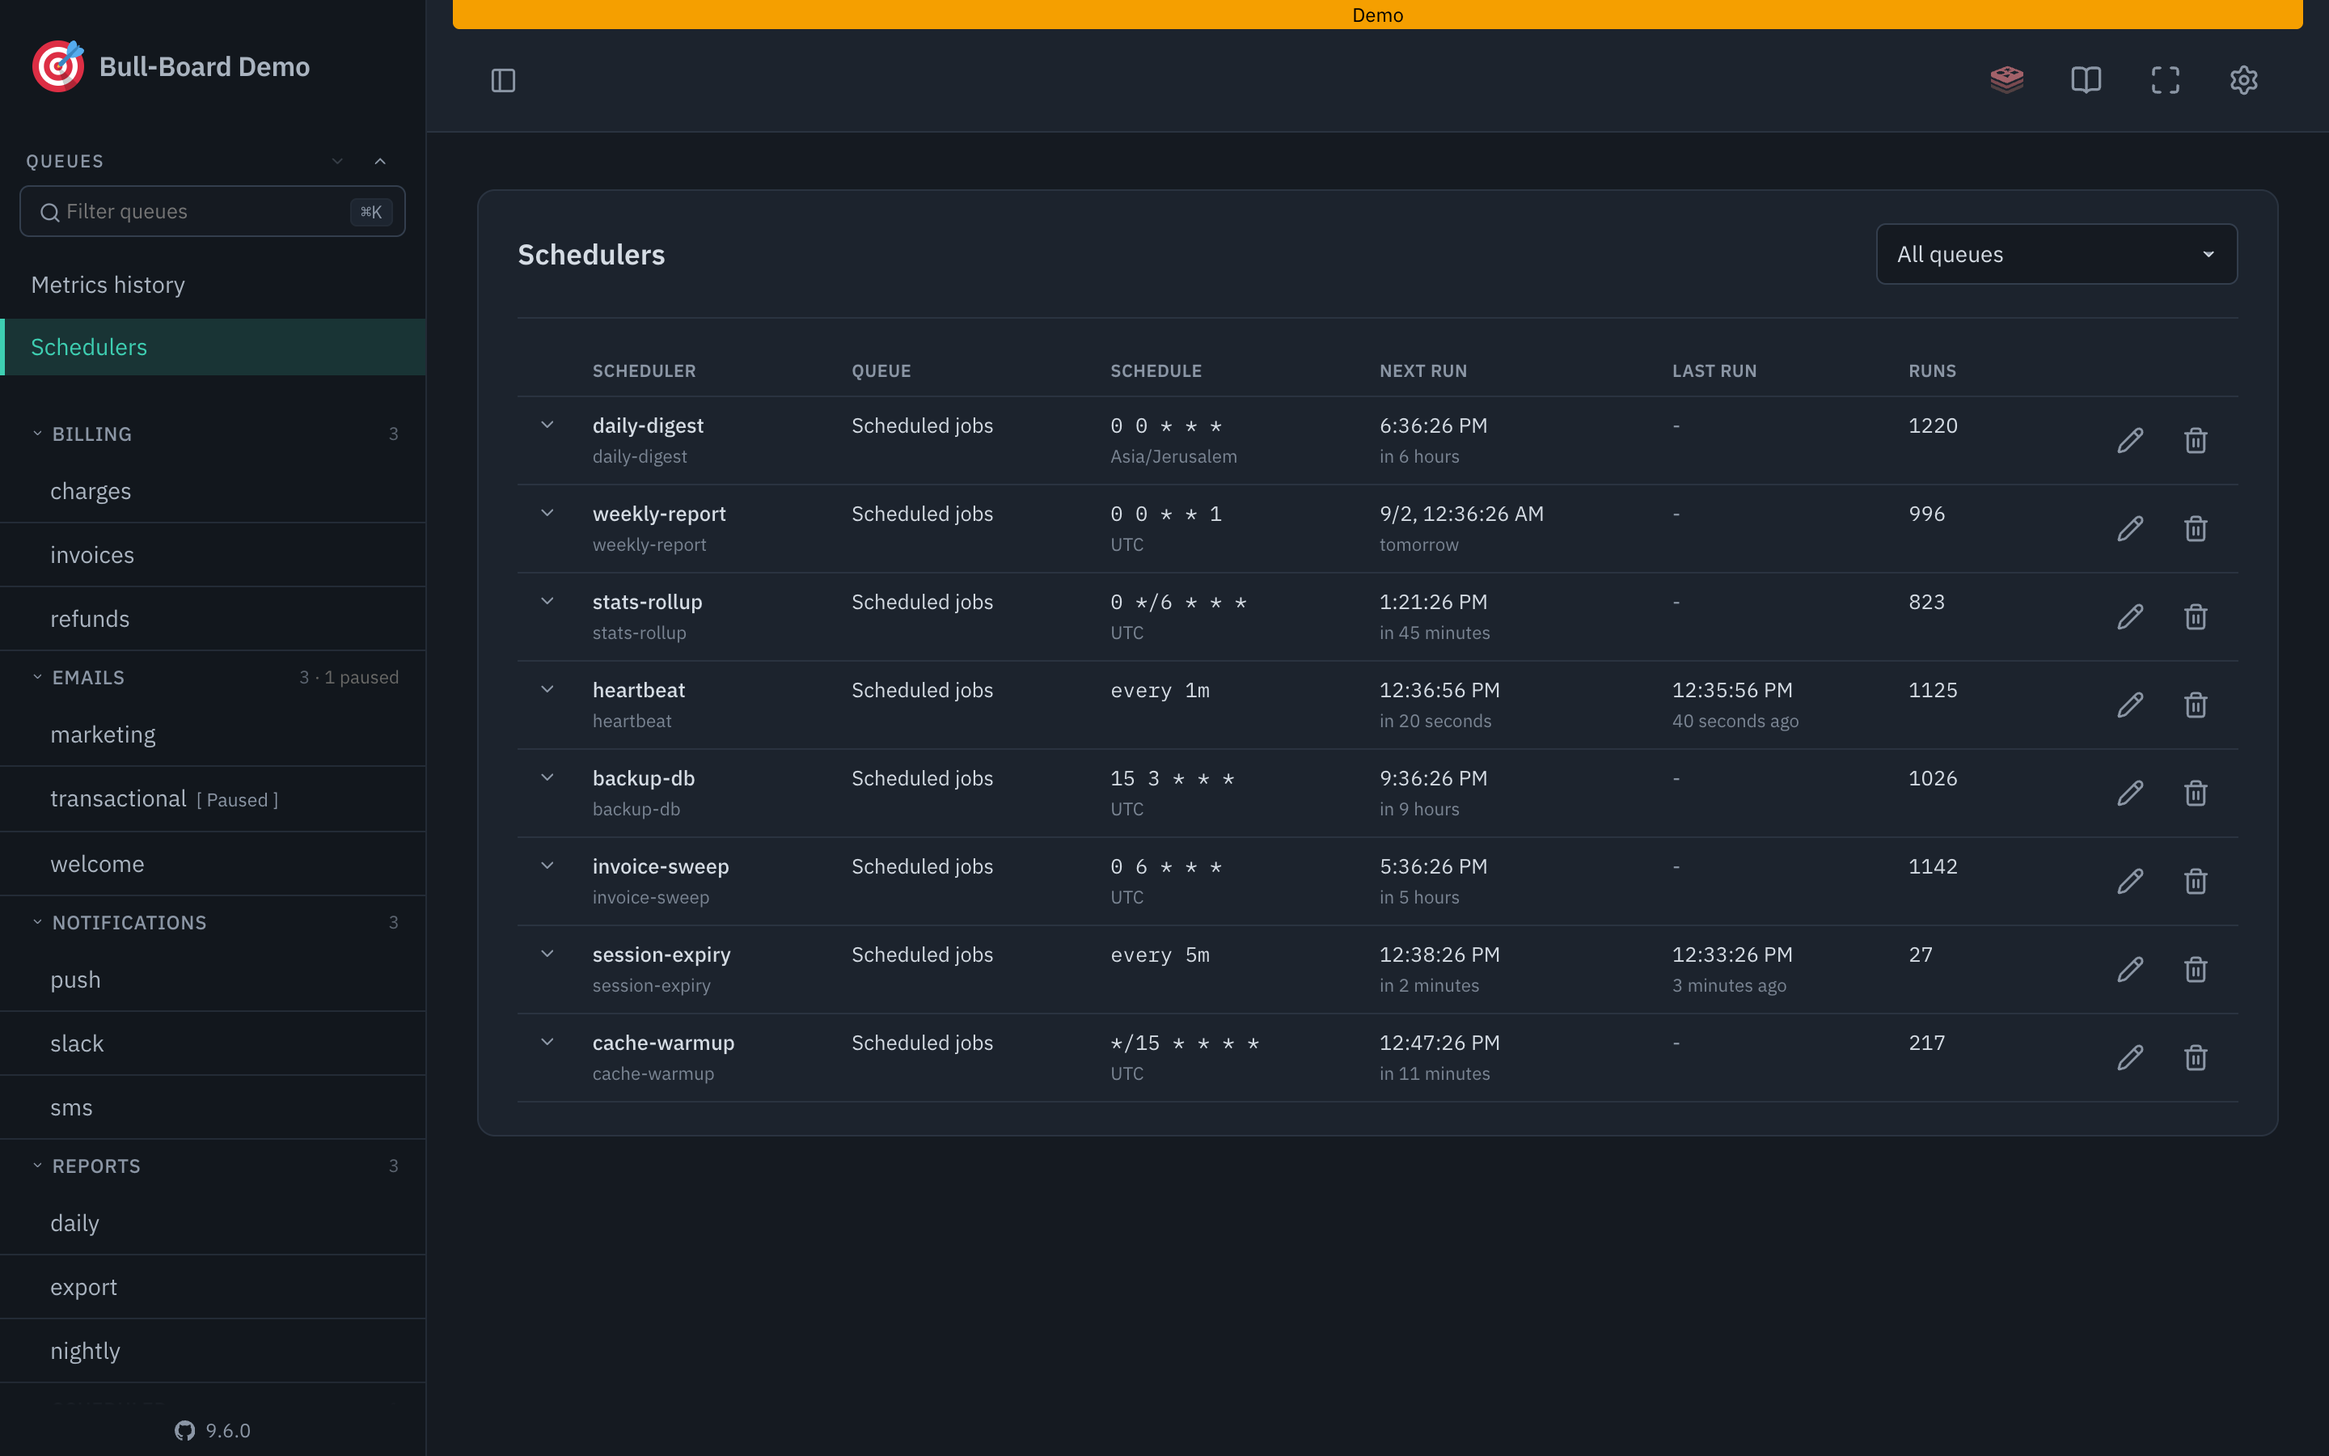
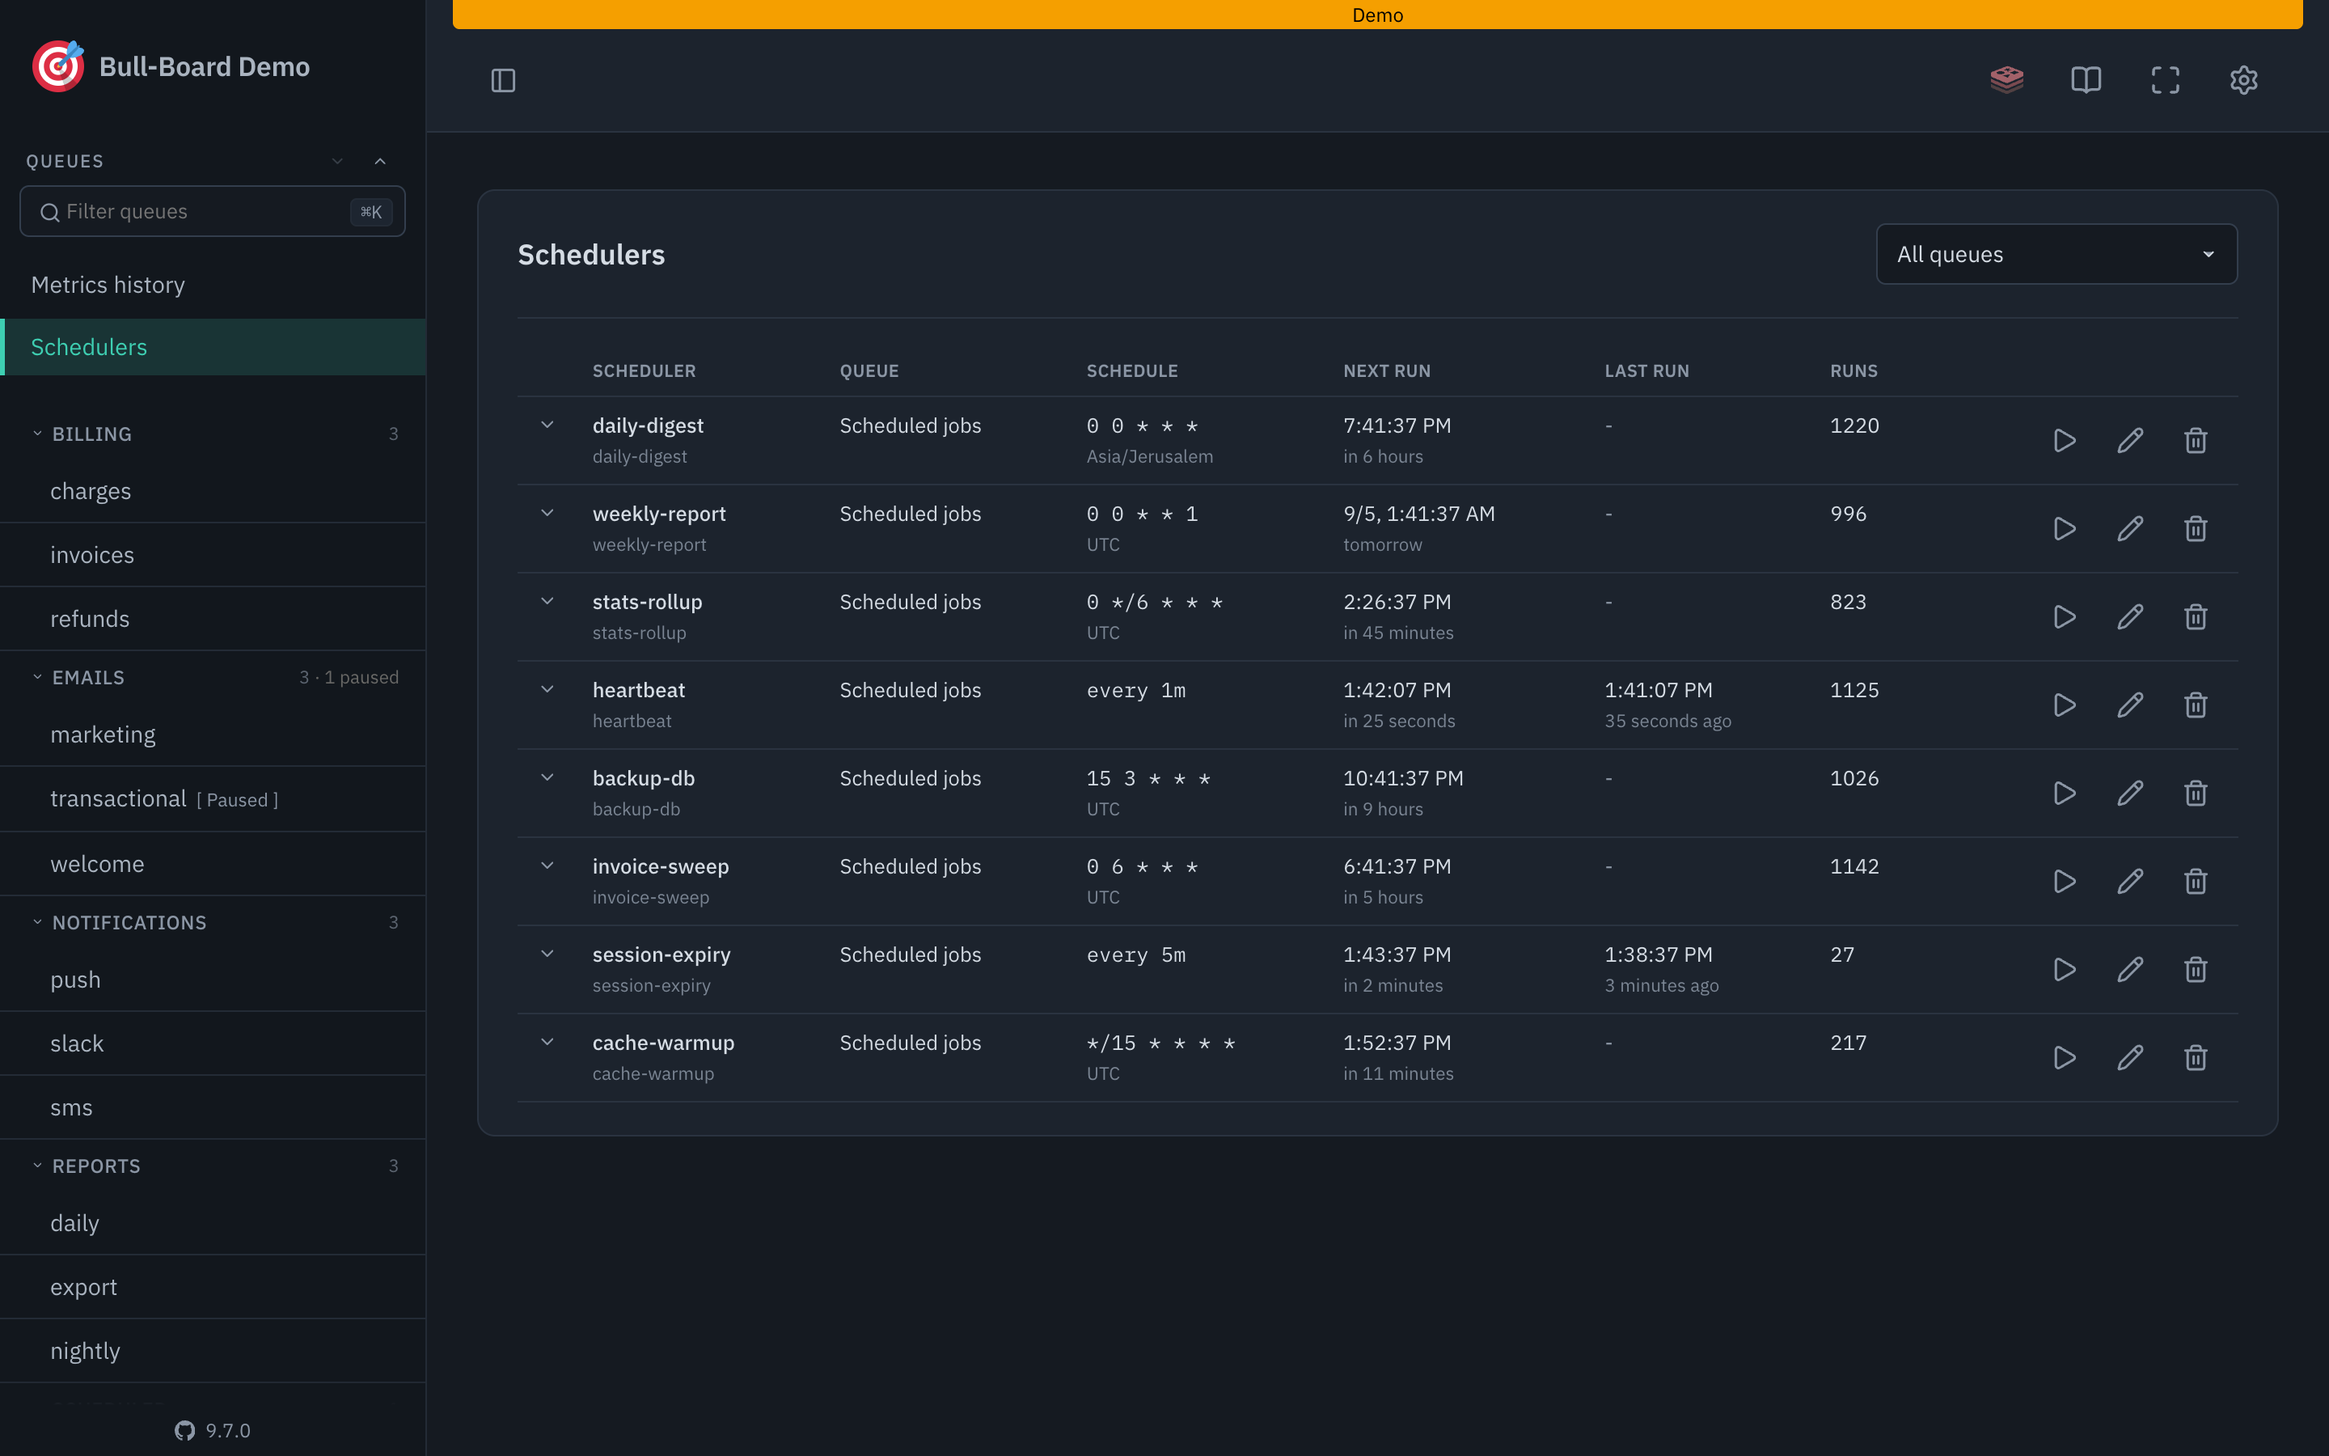
feat(ui): run a job scheduler on demand from the schedulers view (#1430)

diff --git a/packages/api/tests/api/job-schedulers.spec.ts b/packages/api/tests/api/job-schedulers.spec.ts
@@ -387,6 +387,75 @@ describe('Job schedulers', () => {
     });
   });
 
+  describe('Running a scheduler now', () => {
+    it('adds a waiting job from the template and leaves the schedule alone', async () => {
+      await firstQueue.upsertJobScheduler(
+        'nightly-billing',
+        { pattern: '0 3 * * *', tz: 'Europe/Warsaw' },
+        { name: 'billing', data: { scope: 'nightly' }, opts: { attempts: 3 } }
+      );
+
+      const before = await firstQueue.getJobScheduler('nightly-billing');
+
+      const { body } = await request(serverAdapter.getRouter())
+        .put(`/api/queues/${firstQueue.name}/job-schedulers/nightly-billing/run`)
+        .expect(200);
+
+      expect(body.job).toMatchObject({
+        name: 'billing',
+        data: { scope: 'nightly' },
+      });
+      expect(body.job.opts).toMatchObject({ attempts: 3 });
+      expect(body.job.opts.repeat).toBeUndefined();
+
+      const created = await firstQueue.getJob(body.job.id);
+      expect(await created?.getState()).toBe('waiting');
+
+      const after = await firstQueue.getJobScheduler('nightly-billing');
+      expect(after?.pattern).toBe('0 3 * * *');
+      expect(after?.next).toBe(before?.next);
+      expect(after?.iterationCount).toBe(before?.iterationCount);
+    });
+
+    it('leaves the pending run of the schedule where it was', async () => {
+      await firstQueue.upsertJobScheduler('heartbeat', { pattern: '0 3 * * *' }, { name: 'ping' });
+
+      const scheduler = await firstQueue.getJobScheduler('heartbeat');
+      const pendingRunId = `repeat:heartbeat:${scheduler?.next}`;
+
+      await request(serverAdapter.getRouter())
+        .put(`/api/queues/${firstQueue.name}/job-schedulers/heartbeat/run`)
+        .expect(200);
+
+      const pendingRun = await firstQueue.getJob(pendingRunId);
+      expect(await pendingRun?.getState()).toBe('delayed');
+    });
+
+    it('returns 404 for a scheduler that does not exist', async () => {
+      const { body } = await request(serverAdapter.getRouter())
+        .put(`/api/queues/${firstQueue.name}/job-schedulers/never-existed/run`)
+        .expect(404);
+
+      expect(body.error).toEqual({ key: 'ERRORS.JOB_SCHEDULER_NOT_FOUND' });
+    });
+
+    it('is rejected on a read only queue', async () => {
+      const readOnlyServerAdapter = new ExpressAdapter();
+      createBullBoard({
+        queues: [new BullMQAdapter(firstQueue, { readOnlyMode: true })],
+        serverAdapter: readOnlyServerAdapter,
+      });
+
+      await firstQueue.upsertJobScheduler('read-only', { pattern: '0 3 * * *' }, { name: 'task' });
+
+      await request(readOnlyServerAdapter.getRouter())
+        .put(`/api/queues/${firstQueue.name}/job-schedulers/read-only/run`)
+        .expect(405);
+
+      expect(await firstQueue.getJobCountByTypes('waiting')).toBe(0);
+    });
+  });
+
   describe('Legacy Bull queues', () => {
     let bullQueue: BullQueue.Queue;
     let bullServerAdapter: ExpressAdapter;
@@ -450,6 +519,19 @@ describe('Job schedulers', () => {
 
       expect(body.error).toEqual({ key: 'ERRORS.JOB_SCHEDULER_EDIT_NOT_SUPPORTED' });
       expect(await bullQueue.getRepeatableJobs()).toHaveLength(1);
+    });
+
+    it('refuses to run a repeatable job on demand, since Bull keeps no template', async () => {
+      await bullQueue.add('legacy-task', {}, { repeat: { cron: '0 3 * * *' } });
+      const [repeatable] = await bullQueue.getRepeatableJobs();
+
+      const { body } = await request(bullServerAdapter.getRouter())
+        .put(
+          `/api/queues/${bullQueue.name}/job-schedulers/${encodeURIComponent(repeatable.key)}/run`
+        )
+        .expect(405);
+
+      expect(body.error).toEqual({ key: 'ERRORS.JOB_SCHEDULER_RUN_NOT_SUPPORTED' });
     });
   });
 });

diff --git a/packages/ui/src/pages/SchedulersPage/SchedulersPage.tsx b/packages/ui/src/pages/SchedulersPage/SchedulersPage.tsx
@@ -7,6 +7,7 @@ import { Card } from '../../components/Card/Card';
 import { CollapsibleJSON } from '../../components/CollapsibleJSON/CollapsibleJSON';
 import { SelectField } from '../../components/Form/SelectField/SelectField';
 import { ChevronDown } from '../../components/Icons/ChevronDown';
+import { PlayIcon } from '../../components/Icons/Play';
 import { TrashIcon } from '../../components/Icons/Trash';
 import { UpdateIcon } from '../../components/Icons/UpdateIcon';
 import { Loader } from '../../components/Loader/Loader';
@@ -117,9 +118,10 @@ export const SchedulersPage = () => {
                 {schedulers.map((scheduler) => {
                   const queue = queuesByName.get(scheduler.queueName);
                   const isReadOnly = queue?.readOnlyMode ?? false;
-                  // Bull has no upsert for repeatable jobs, so its schedules are read-only here.
-                  // An unknown queue is treated the same way until the queues list arrives.
-                  const canEdit = !isReadOnly && queue?.type === 'bullmq';
+                  // Editing needs an upsert and running on demand needs a stored template, and
+                  // Bull has neither. An unknown queue is treated the same way until the queues
+                  // list arrives.
+                  const isBullMQ = queue?.type === 'bullmq';
                   const isExpanded = expanded.includes(rowKey(scheduler));
                   const hasTemplate = !!scheduler.template?.data || !!scheduler.template?.opts;
 
@@ -163,7 +165,17 @@ export const SchedulersPage = () => {
                           )}
                         </td>
                         <td className={s.actionsCell}>
-                          {canEdit && (
+                          {!isReadOnly && isBullMQ && (
+                            <Button
+                              compact
+                              onClick={actions.runNow(scheduler)}
+                              title={t('SCHEDULERS.ACTIONS.RUN')}
+                              aria-label={t('SCHEDULERS.ACTIONS.RUN')}
+                            >
+                              <PlayIcon />
+                            </Button>
+                          )}
+                          {!isReadOnly && isBullMQ && (
                             <Button
                               compact
                               onClick={() => setEditing(scheduler)}

diff --git a/packages/api/src/handlers/runJobScheduler.ts b/packages/api/src/handlers/runJobScheduler.ts
@@ -1,0 +1,34 @@
+import { BullBoardRequest, ControllerHandlerReturnType } from '../../typings/app';
+import { errorResponse } from '../errors';
+import { queueProvider } from '../providers/queue';
+import { BaseAdapter } from '../queueAdapters/base';
+import { formatJob } from './queues';
+
+/**
+ * Fires a scheduler once, right now, without touching its schedule: the job that comes out is a
+ * plain one-off built from the template, and the run the scheduler was already holding is left
+ * where it was.
+ */
+async function runJobScheduler(
+  req: BullBoardRequest,
+  queue: BaseAdapter
+): Promise<ControllerHandlerReturnType> {
+  const { schedulerId } = req.params;
+
+  if (!queue.supportsJobSchedulerRun) {
+    return errorResponse(405, 'ERRORS.JOB_SCHEDULER_RUN_NOT_SUPPORTED');
+  }
+
+  const job = await queue.runJobSchedulerNow(schedulerId);
+
+  if (job === 'not-found') {
+    return errorResponse(404, 'ERRORS.JOB_SCHEDULER_NOT_FOUND');
+  }
+
+  return {
+    status: 200,
+    body: { job: formatJob(job, queue) },
+  };
+}
+
+export const runJobSchedulerHandler = queueProvider(runJobScheduler);

diff --git a/packages/api/src/routes.ts b/packages/api/src/routes.ts
@@ -31,6 +31,7 @@ import { resumeAllHandler } from './handlers/resumeAll';
 import { resumeQueueHandler } from './handlers/resumeQueue';
 import { retryAllHandler } from './handlers/retryAll';
 import { retryJobHandler } from './handlers/retryJob';
+import { runJobSchedulerHandler } from './handlers/runJobScheduler';
 import { setGlobalConcurrencyHandler } from './handlers/setGlobalConcurrency';
 import { updateJobDataHandler } from './handlers/updateJobData';
 import { updateJobSchedulerHandler } from './handlers/updateJobScheduler';
@@ -157,6 +158,11 @@ export const appRoutes: AppRouteDefs = {
       method: 'patch',
       route: '/api/queues/:queueName/job-schedulers/:schedulerId',
       handler: updateJobSchedulerHandler,
+    },
+    {
+      method: 'put',
+      route: '/api/queues/:queueName/job-schedulers/:schedulerId/run',
+      handler: runJobSchedulerHandler,
     },
     {
       method: 'put',

diff --git a/website/demo/src/mocks/MockAdapter.ts b/website/demo/src/mocks/MockAdapter.ts
@@ -269,6 +269,10 @@ export class MockAdapter extends BaseAdapter {
     return this.mockQueue.schedulers.length;
   }
 
+  override get supportsJobSchedulerUpdate(): boolean {
+    return true;
+  }
+
   async updateJobScheduler(
     id: string,
     repeat: JobSchedulerRepeatOptions
@@ -285,5 +289,20 @@ export class MockAdapter extends BaseAdapter {
       endDate: repeat.endDate,
     });
     return 'updated';
+  }
+
+  override get supportsJobSchedulerRun(): boolean {
+    return true;
+  }
+
+  async runJobSchedulerNow(id: string): Promise<QueueJob | 'not-found'> {
+    const scheduler = this.mockQueue.schedulers.find((entry) => entry.id === id);
+    if (!scheduler) return 'not-found';
+
+    return this.addJob(
+      scheduler.name,
+      scheduler.template?.data,
+      (scheduler.template?.opts ?? {}) as QueueJobOptions
+    );
   }
 }

diff --git a/packages/api/src/queueAdapters/bullMQ.ts b/packages/api/src/queueAdapters/bullMQ.ts
@@ -236,6 +236,22 @@ export class BullMQAdapter extends BaseAdapter {
     return true;
   }
 
+  public override get supportsJobSchedulerRun(): boolean {
+    return true;
+  }
+
+  public async runJobSchedulerNow(id: string): Promise<QueueJob | 'not-found'> {
+    const scheduler = await this.queue.getJobScheduler(id);
+
+    if (!scheduler) {
+      return 'not-found';
+    }
+
+    // BullMQ already strips `repeat`, `jobId` and `delay` from a stored template, so what this
+    // adds is an ordinary one-off job and the schedule keeps the pending run it was holding.
+    return this.queue.add(scheduler.name, scheduler.template?.data, scheduler.template?.opts);
+  }
+
   public async updateJobScheduler(
     id: string,
     repeat: JobSchedulerRepeatOptions

diff --git a/packages/ui/src/services/Api.ts b/packages/ui/src/services/Api.ts
@@ -28,6 +28,7 @@ import {
   GetQueuesResponse,
   GetQueueWorkersResponse,
   RetryAllResponse,
+  RunJobSchedulerResponse,
 } from '@bull-board/api/typings/responses';
 import Axios, { AxiosInstance, AxiosResponse } from 'axios';
 import { translateMessage } from '../utils/translateMessage';
@@ -300,6 +301,14 @@ export class Api {
     return this.axios.patch(
       `/queues/${encodeURIComponent(queueName)}/job-schedulers/${encodeURIComponent(schedulerId)}`,
       repeat
+    );
+  }
+
+  public runJobScheduler(queueName: string, schedulerId: string): Promise<RunJobSchedulerResponse> {
+    return this.axios.put(
+      `/queues/${encodeURIComponent(queueName)}/job-schedulers/${encodeURIComponent(
+        schedulerId
+      )}/run`
     );
   }
 

diff --git a/packages/ui/src/hooks/useJobSchedulers.ts b/packages/ui/src/hooks/useJobSchedulers.ts
@@ -74,9 +74,22 @@ export function useJobSchedulers(queueName?: string) {
     return true;
   };
 
+  const runNow = (scheduler: AppJobScheduler) =>
+    withConfirmAndUpdate(
+      () =>
+        runWithToast(() => api.runJobScheduler(scheduler.queueName, scheduler.id), {
+          pending: t('SCHEDULERS.TOAST.RUN_PENDING', { id: scheduler.id }),
+          success: t('SCHEDULERS.TOAST.RUN_DONE', { id: scheduler.id }),
+        }),
+      {
+        description: t('SCHEDULERS.CONFIRM.RUN', { id: scheduler.id }),
+        shouldConfirm: confirmQueueActions,
+      }
+    );
+
   return {
     schedulers: data?.schedulers ?? [],
     loading: isPending,
-    actions: { remove, update },
+    actions: { remove, update, runNow },
   };
 }

diff --git a/packages/api/src/queueAdapters/base.ts b/packages/api/src/queueAdapters/base.ts
@@ -162,6 +162,20 @@ export abstract class BaseAdapter {
     return false;
   }
 
+  /**
+   * Adds one job from the scheduler's template immediately, leaving the schedule itself alone.
+   * Adapters that cannot do this leave {@link supportsJobSchedulerRun} false and are never asked.
+   */
+  public abstract runJobSchedulerNow(id: string): Promise<QueueJob | 'not-found'>;
+
+  /**
+   * Whether {@link runJobSchedulerNow} does anything. False for Bull, which stores no template to
+   * re-add from.
+   */
+  public get supportsJobSchedulerRun(): boolean {
+    return false;
+  }
+
   public abstract getStatuses(): Status[];
 
   public abstract getJobStatuses(): JobStatus[];

diff --git a/packages/api/src/queueAdapters/bull.ts b/packages/api/src/queueAdapters/bull.ts
@@ -170,6 +170,11 @@ export class BullAdapter extends BaseAdapter {
     throw new Error('Bull does not support updating a repeatable job');
   }
 
+  public async runJobSchedulerNow(_id: string): Promise<QueueJob | 'not-found'> {
+    // Bull keeps no template for a repeatable job, so there is nothing to re-add on demand.
+    throw new Error('Bull does not support running a repeatable job on demand');
+  }
+
   public getStatuses(): Status<'bull'>[] {
     return [
       STATUSES.latest,

diff --git a/packages/api/typings/responses.d.ts b/packages/api/typings/responses.d.ts
@@ -56,6 +56,11 @@ export interface GetJobSchedulersResponse {
   schedulers: AppJobScheduler[];
 }
 
+/** The one-off job an on-demand scheduler run produced. */
+export interface RunJobSchedulerResponse {
+  job: AppJob;
+}
+
 export interface GetQueueRateLimitResponse {
   supported: boolean;
   rateLimit: QueueRateLimit | null;

diff --git a/packages/api/typings/app.d.ts b/packages/api/typings/app.d.ts
@@ -497,6 +497,7 @@ export type ErrorTranslationKey =
   | 'ERRORS.JOB_NOT_RETRIABLE'
   | 'ERRORS.JOB_SCHEDULER_EDIT_NOT_SUPPORTED'
   | 'ERRORS.JOB_SCHEDULER_NOT_FOUND'
+  | 'ERRORS.JOB_SCHEDULER_RUN_NOT_SUPPORTED'
   | 'ERRORS.QUEUE_HAS_ACTIVE_JOBS'
   | 'ERRORS.QUEUE_HAS_ACTIVE_JOBS_DETAILS'
   | 'ERRORS.QUEUE_NOT_FOUND'
